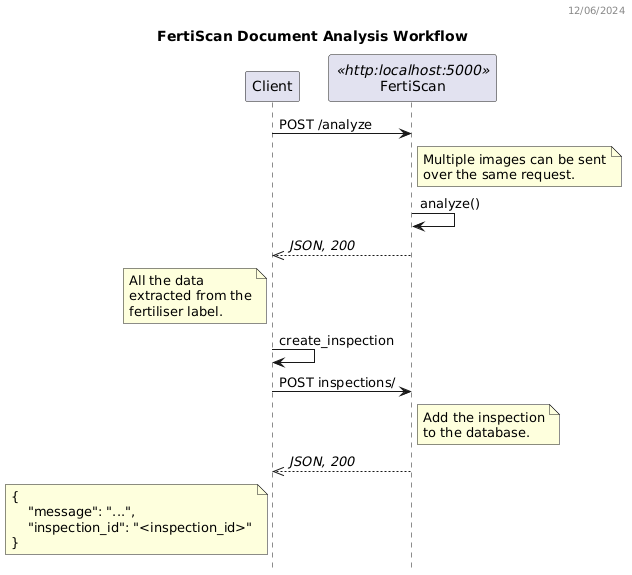
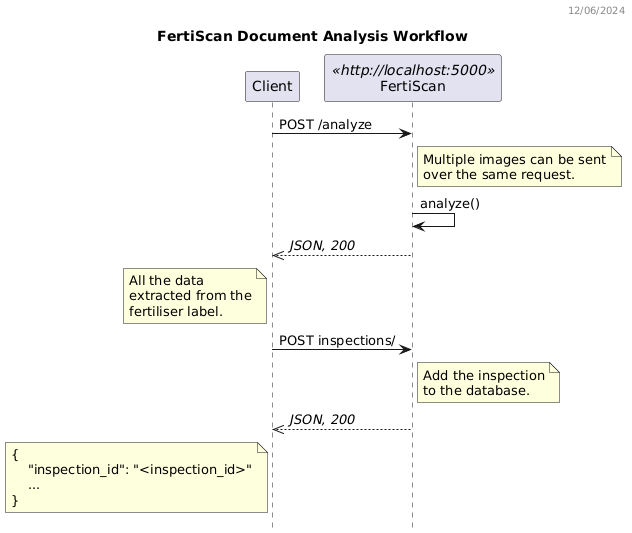
Update README and PlantUML diagrams; remove obsolete inspection endpoints and add FertiScan pipeline details

diff --git a/docs/README.md b/docs/README.md
@@ -1,7 +1,5 @@
 # Developer Documentation
 
-![domain](../out/domain_model/Model%20Diagram.png)
-
 ## Document Analysis Workflow
 
 ![workflow](../out/workflow_dss/FertiScan%20Sequence%20Diagram.png)
@@ -37,6 +35,11 @@ In essence, the `/analyze` route automates the extraction and structuring of
 - **Description**: The core backend service of the FertiScan system.
 - **Repository**: <https://github.com/ai-cfia/fertiscan-backend/>
 
+### FertiScan Pipeline
+
+- **Description**: The core analysis pipeline for FertiScan
+- **Repository**: <https://github.com/ai-cfia/fertiscan-pipeline/>
+
 ### Database
 
 - **Description**: The database where the information on fertiliser and labels
@@ -45,39 +48,8 @@ In essence, the `/analyze` route automates the extraction and structuring of
 
 ## API Endpoints
 
-### `GET /health`
-
-Check if the service is still alive.
-
-### `POST /analyze`
-
-Upload images for analysis and get the results as a JSON inspection.
-
-![analyze](../out/analyze_dss/Analyze%20DSS.png)
-
-### `POST /inspections`
-
-Create a new inspection and add it to the database.
-
-![create](../out/create_inspection_dss/FertiScan%20Sequence%20Diagram.png)
-
-### `PUT /inspections`
-
-Send the latest state of a inspection to the database.
-
-![update](../out/update_inspection_dss/FertiScan%20Sequence%20Diagram.png)
-
-### `DELETE /inspections`
-
-Remove all transient states of a inspection.
-
-![discard](../out/discard_inspection_dss/FertiScan%20Sequence%20Diagram.png)
-
-### `GET /inspections`
-
-Retrieve a list of inspections matching the search query.
-
-![search](../out/get_inspections_dss/FertiScan%20Sequence%20Diagram.png)
+The [Swagger UI](https://swagger.io/tools/swagger-ui/) for the API of FertiScan
+is available at [/docs](http://localhost:5000/docs).
 
 v1.0.0
 
